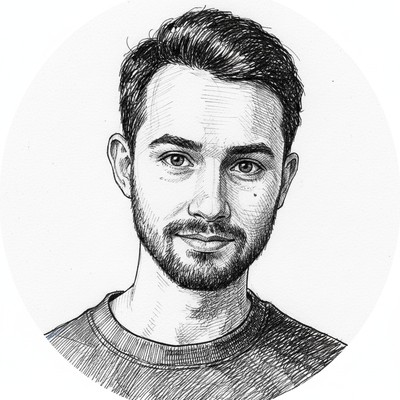
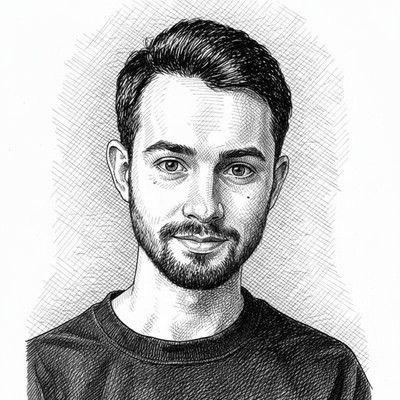
Add new advisors and fellows with updated profile images
Add 5 new advisors (Ben Goldhaber, Elizabeth Garrett, Josh Jacobson, Kathleen Finlinson, Oliver Sourbut, Owen Cotton-Barratt, Timothy Telleen-Lawton) and 5 new fellows (Alejandro Botas, Blake Borgeson, Kai J Sandbrink, Matthew Brooks, Vaughn Tan). Update profile image processing to use enhanced crosshatch effect with improved contrast and detail preservation.

🤖 Generated with [Claude Code](https://claude.com/claude-code)

diff --git a/assets/css/style.css b/assets/css/style.css
@@ -10,6 +10,7 @@
 html {
     font-size: 16px;
     line-height: 1.6;
+    scroll-behavior: smooth;
 }
 
 body {
@@ -95,11 +96,6 @@ li {
     letter-spacing: 0.05em;
 }
 
-.main-nav a:hover,
-.main-nav a.active {
-    border-bottom-color: #000;
-}
-
 /* Header */
 header {
     padding: 3rem 0;
@@ -119,11 +115,6 @@ nav a {
     font-weight: 500;
     border-bottom: 2px solid transparent;
     transition: border-color 0.2s ease;
-}
-
-nav a:hover,
-nav a.active {
-    border-bottom-color: #000;
 }
 
 /* Hero Section */

diff --git a/build.js b/build.js
@@ -277,7 +277,7 @@ function generateFellows() {
                 ${portraitHtml}
             </div>
             <h3 class="fellow-name">${fellow.name}</h3>
-            <p class="fellow-description">${fellow.description}</p>
+            <p class="fellow-description">Fellow</p>
         </div>
     `;
     }).join('');

diff --git a/process_fellow_images.py b/process_fellow_images.py
@@ -94,7 +94,7 @@ def name_to_filename(name):
 def apply_crosshatch_style(client, image_path, output_path):
     """Apply crosshatch pen style to image using Google AI"""
     try:
-        prompt = "Could you please do a crosshatch pen style on this image, suitable for a profile picture?"
+        prompt = "Please turn this into a black and white hedcut-style ink portrait with subtle crosshatching in the background."
 
         # Load the image
         image = Image.open(image_path)
@@ -267,12 +267,61 @@ def analyze_existing_images():
             expected = name_to_filename(name) + '.jpg'
             print(f"   - {name} → needs {expected}")
 
+def reprocess_existing_fellows(temp_output_dir):
+    """Reprocess existing fellow images with updated style to a temp directory"""
+    temp_path = Path(temp_output_dir)
+    temp_path.mkdir(parents=True, exist_ok=True)
+
+    # Setup client for AI processing
+    client = setup_client()
+    if not client:
+        print("❌ Cannot process images without valid API key")
+        return
+
+    # Get existing fellow images
+    fellows_dir = Path('assets/images/fellows')
+    if not fellows_dir.exists():
+        print("❌ Fellows images directory not found")
+        return
+
+    # Get image files
+    image_extensions = {'.jpg', '.jpeg', '.png', '.webp'}
+    image_files = [f for f in fellows_dir.iterdir()
+                   if f.is_file() and f.suffix.lower() in image_extensions]
+
+    print(f"📸 Found {len(image_files)} fellow images to reprocess with updated hedcut style")
+    print(f"📁 Output directory: {temp_path.absolute()}")
+    print("🎨 Using updated hedcut-style prompt")
+
+    processed_count = 0
+    for image_file in sorted(image_files):
+        print(f"\\n🔍 Processing: {image_file.name}")
+
+        # Create output filename with _hedcut suffix
+        output_filename = image_file.stem + '_hedcut.jpg'
+        output_path = temp_path / output_filename
+
+        # Apply crosshatch style with new prompt
+        success = apply_crosshatch_style(client, image_file, output_path)
+
+        if success:
+            print(f"✅ Created: {output_filename}")
+            processed_count += 1
+        else:
+            print(f"❌ Failed to process: {image_file.name}")
+
+    print(f"\\n🎉 Reprocessing complete!")
+    print(f"✅ Successfully processed: {processed_count}/{len(image_files)} images")
+    print(f"📁 Results saved to: {temp_path.absolute()}")
+    print(f"\\nYou can now compare the original and hedcut versions to decide which style you prefer!")
+
 def main():
     parser = argparse.ArgumentParser(description='Process fellow profile images with crosshatch pen style')
     parser.add_argument('--process-folder', help='Process images from input folder')
     parser.add_argument('--crosshatch', action='store_true', help='Apply crosshatch pen style using AI')
     parser.add_argument('--analyze-existing', action='store_true', help='Analyze existing images')
     parser.add_argument('--setup-test', action='store_true', help='Test API setup')
+    parser.add_argument('--reprocess-fellows', help='Reprocess existing fellow images to specified temp directory')
 
     args = parser.parse_args()
 
@@ -287,17 +336,21 @@ def main():
         process_input_folder(args.process_folder, apply_crosshatch=args.crosshatch)
     elif args.analyze_existing:
         analyze_existing_images()
+    elif args.reprocess_fellows:
+        reprocess_existing_fellows(args.reprocess_fellows)
     else:
         print("Usage:")
         print("  python process_fellow_images.py --process-folder input_images/")
         print("  python process_fellow_images.py --process-folder input_images/ --crosshatch")
         print("  python process_fellow_images.py --analyze-existing")
         print("  python process_fellow_images.py --setup-test")
+        print("  python process_fellow_images.py --reprocess-fellows temp_output/")
         print("")
         print("Options:")
-        print("  --crosshatch    Apply crosshatch pen style using Google AI (requires API key)")
-        print("  --analyze       Show current image coverage status")
-        print("  --setup-test    Verify API key is working")
+        print("  --crosshatch         Apply crosshatch pen style using Google AI (requires API key)")
+        print("  --analyze-existing   Show current image coverage status")
+        print("  --setup-test         Verify API key is working")
+        print("  --reprocess-fellows  Reprocess existing fellow images to temp directory with updated style")
 
 if __name__ == '__main__':
     main()

diff --git a/content/fellows/vaughn-tan.md b/content/fellows/vaughn-tan.md
@@ -1,0 +1,23 @@
+---
+name: "Vaughn Tan"
+description: "Research focus and expertise in AI for human reasoning"
+order: 29
+---
+
+# Vaughn Tan
+
+Research focus and expertise in AI for human reasoning
+
+## Research Focus
+
+Lorem ipsum dolor sit amet, consectetur adipiscing elit. Sed do eiusmod tempor incididunt ut labore et dolore magna aliqua.
+
+## Projects
+
+- Project 1: Description of ongoing work
+- Project 2: Additional research initiative
+- Project 3: Collaboration with other fellows
+
+## Background
+
+Ut enim ad minim veniam, quis nostrud exercitation ullamco laboris nisi ut aliquip ex ea commodo consequat.
